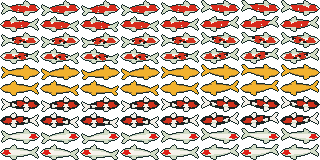
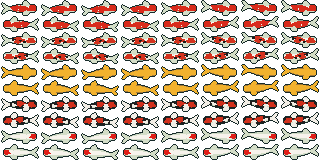
fix: preserve koi state poses and inline SSH graphics

diff --git a/site/index.html b/site/index.html
@@ -23,7 +23,7 @@
 <script>
 'use strict';
 const canvas=document.getElementById('pond');
[2 lines of base64/hex data omitted]
 const motion=matchMedia('(prefers-reduced-motion: reduce)');
 let width=0,height=0,raf=0,last=0,clock=0,target=null;
 const ripples=[];

diff --git a/internal/render/koi_review_test.go b/internal/render/koi_review_test.go
@@ -1,0 +1,189 @@
+package render
+
+import (
+	"bytes"
+	"fmt"
+	uv "github.com/charmbracelet/ultraviolet"
+	"github.com/creack/pty"
+	"github.com/kazuph/ikesu/internal/kitty"
+	"github.com/kazuph/ikesu/internal/layout"
+	"image"
+	"image/color"
+	"image/draw"
+	"image/gif"
+	"image/png"
+	"os"
+	"path/filepath"
+	"strings"
+	"testing"
+)
+
+func TestKoiGIFContainsEveryFish(t *testing.T) {
+	data, err := os.ReadFile(filepath.Join("..", "..", "docs", "brand", "koi.gif"))
+	if err != nil {
+		t.Fatal(err)
+	}
+	animation, err := gif.DecodeAll(bytes.NewReader(data))
+	if err != nil {
+		t.Fatal(err)
+	}
+	for tick, frame := range animation.Image {
+		for i := 0; i < 4; i++ {
+			fish := koiPose(KoiAgent{Seed: i, State: "idle"}, layout.Rect{X: 0, Y: i * 3, W: 40, H: 2}, 10, float64(tick)/20)
+			at := koiPixelPosition(fish, 8, 16)
+			box := image.Rectangle{Min: at, Max: at.Add(image.Pt(80, 32))}
+			if !box.In(frame.Bounds()) {
+				t.Fatalf("frame %d fish %d clipped: %v outside %v", tick, i, box, frame.Bounds())
+			}
+		}
+	}
+}
+
+func TestKoiOctantIdleActuallySinks(t *testing.T) {
+	centroid := func(state string) float64 {
+		f := NewFrame(40, 8)
+		for y := 0; y < f.H; y++ {
+			for x := 0; x < f.W; x++ {
+				f.Set(x, y, " ", uv.Style{Bg: waterBG})
+			}
+		}
+		fish := koiPose(KoiAgent{Seed: 0, State: state}, layout.Rect{X: 1, Y: 1, W: 30, H: 2}, 10, 0)
+		drawKoiOctants(f, fish)
+		total, n := 0, 0
+		for y := 0; y < f.H; y++ {
+			for x := 0; x < f.W; x++ {
+				c := f.Cell(x, y)
+				mask := -1
+				for i, r := range octantRunes {
+					if c.Content == string(r) {
+						mask = i
+						break
+					}
+				}
+				if mask < 0 {
+					continue
+				}
+				for i := 0; i < 8; i++ {
+					v := c.Style.Bg
+					if mask&(1<<i) != 0 {
+						v = c.Style.Fg
+					}
+					if v != nil && color.RGBAModel.Convert(v) != waterBG {
+						total += y*4 + i/2
+						n++
+					}
+				}
+			}
+		}
+		if n == 0 {
+			t.Fatal("no fish pixels")
+		}
+		return float64(total) / float64(n)
+	}
+	working, idle, blocked := centroid("working"), centroid("idle"), centroid("blocked")
+	t.Logf("final octant dot centroids: working=%v idle=%v blocked=%v", working, idle, blocked)
+	if idle <= working || idle <= blocked {
+		t.Fatalf("idle did not sink in final cells: working=%v idle=%v blocked=%v", working, idle, blocked)
+	}
+}
+
+func TestKoiHeadHasBluntPixelFace(t *testing.T) {
+	for _, size := range []image.Point{{40, 16}, {24, 8}} {
+		for v := range KoiPatterns {
+			img := KoiPixelSprite(v, 0, 0, size.X, size.Y)
+			front := -1
+			count := 0
+			for x := size.X - 1; x >= 0; x-- {
+				for y := 0; y < size.Y; y++ {
+					if img.RGBAAt(x, y).A != 0 {
+						count++
+					}
+				}
+				if count > 0 {
+					front = x
+					break
+				}
+			}
+			if count < size.Y/4 {
+				t.Errorf("variety %d size %v pointed face: x=%d height=%d", v, size, front, count)
+			}
+		}
+	}
+}
+
+func TestExportKoiShapeProof(t *testing.T) {
+	dest := os.Getenv("KOI_SHAPE_PROOF")
+	if dest == "" {
+		t.Skip("explicit shape proof export")
+	}
+	if err := os.MkdirAll(dest, 0755); err != nil {
+		t.Fatal(err)
+	}
+	for _, size := range []image.Point{{40, 16}, {24, 8}} {
+		for _, scale := range []int{1, 4} {
+			sheet := image.NewRGBA(image.Rect(0, 0, size.X*scale*len(KoiPatterns), size.Y*scale))
+			for v := range KoiPatterns {
+				sprite := KoiSprite(v, 0, 0, size.X*scale, size.Y*scale)
+				at := image.Pt(v*size.X*scale, 0)
+				draw.Draw(sheet, sprite.Bounds().Add(at), sprite, image.Point{}, draw.Src)
+			}
+			name := fmt.Sprintf("koi-%dx%d-%dx.png", size.X, size.Y, scale)
+			save := func(name string, img image.Image) {
+				f, err := os.Create(filepath.Join(dest, name))
+				if err != nil {
+					t.Fatal(err)
+				}
+				defer f.Close()
+				if err := png.Encode(f, img); err != nil {
+					t.Fatal(err)
+				}
+			}
+			save(name, sheet)
+			if before := os.Getenv("KOI_SHAPE_BEFORE"); before != "" {
+				f, err := os.Open(filepath.Join(before, name))
+				if err != nil {
+					t.Fatal(err)
+				}
+				old, err := png.Decode(f)
+				f.Close()
+				if err != nil {
+					t.Fatal(err)
+				}
+				comparison := image.NewRGBA(image.Rect(0, 0, sheet.Bounds().Dx(), sheet.Bounds().Dy()*2))
+				draw.Draw(comparison, old.Bounds(), old, image.Point{}, draw.Src)
+				draw.Draw(comparison, sheet.Bounds().Add(image.Pt(0, sheet.Bounds().Dy())), sheet, image.Point{}, draw.Src)
+				save("comparison-"+name, comparison)
+			}
+		}
+	}
+}
+
+func TestKoiSSHUsesInlineImages(t *testing.T) {
+	for _, key := range []string{"TERM_PROGRAM", "TERM", "KITTY_WINDOW_ID", "SSH_CONNECTION", "SSH_TTY", "TMUX", "STY"} {
+		t.Setenv(key, "")
+		os.Unsetenv(key)
+	}
+	master, terminal, err := pty.Open()
+	if err != nil {
+		t.Fatal(err)
+	}
+	defer master.Close()
+	defer terminal.Close()
+	t.Setenv("TERM", "xterm-ghostty")
+	t.Setenv("SSH_CONNECTION", "192.0.2.1 1 192.0.2.2 2")
+	in := koiFixture(t, 1)
+	in.KoiKitty = kitty.SupportsImages(terminal, terminal)
+	in.KoiCellW, in.KoiCellH = 8, 16
+	var enc Encoder
+	out := Compose(in)
+	wire := string(enc.Frame(out.Frame, 0, 0, false))
+	if !strings.Contains(wire, "a=t,t=d,") || strings.Contains(wire, "t=f,") {
+		t.Fatal("SSH koi did not use in-band image data")
+	}
+	t.Setenv("TMUX", "session")
+	in.KoiKitty = kitty.SupportsImages(terminal, terminal)
+	out = Compose(in)
+	if len(out.Frame.Graphics) != 0 || !out.Frame.KoiActive {
+		t.Fatal("TMUX did not render octants")
+	}
+}

diff --git a/internal/render/koi_raster.go b/internal/render/koi_raster.go
@@ -61,16 +61,16 @@ func koiSample(p KoiPattern, u, v, wag float64) (color.RGBA, float64) {
 	}
 	// Pectoral fins, both sides.
 	for _, s := range []float64{1, -1} {
-		du, dv := (u-0.66)/0.07, (v-s*0.14)/0.07
+		du, dv := (u-0.66)/0.085, (v-s*0.14)/0.085
 		rot := du*0.6 + dv*0.8*s
 		if du*du+dv*dv < 1 && rot < 0.6 {
 			return fin, 0.55
 		}
 	}
-	if u < 0.12 || u > 1 {
+	if u < 0.12 || u > 0.94 {
 		return color.RGBA{}, 0
 	}
-	// Torpedo outline, blunt head.
+	// Broad body with a short rounded face.
 	x := (u - 0.12) / 0.88
 	// Tapered tail, widest just behind the fins, then a round blunt head.
 	const peak = 0.62
@@ -78,7 +78,7 @@ func koiSample(p KoiPattern, u, v, wag float64) (color.RGBA, float64) {
 	if x < peak {
 		w = half * math.Pow(math.Sin(math.Pi/2*x/peak), 0.8)
 	} else {
-		w = half * math.Sqrt(math.Max(0, 1-math.Pow((x-peak)/(1-peak), 2.4)))
+		w = half * math.Sqrt(math.Max(0, 1-math.Pow((u-(0.12+0.88*peak))/(1-(0.12+0.88*peak)), 2)))
 	}
 	if math.Abs(v) > w {
 		return color.RGBA{}, 0

diff --git a/internal/client/machines.go b/internal/client/machines.go
@@ -13,6 +13,7 @@ import (
 
 	"github.com/kazuph/ikesu/internal/api"
 	"github.com/kazuph/ikesu/internal/input"
+	"github.com/kazuph/ikesu/internal/kitty"
 	"github.com/kazuph/ikesu/internal/latency"
 	"github.com/kazuph/ikesu/internal/machine"
 	"github.com/kazuph/ikesu/internal/platform"
@@ -142,7 +143,7 @@ func pumpMachines(session string, local net.Conn, in, out *os.File, settings *lo
 		m.trace = latency.Open(filepath.Join(api.SessionDir(session), "client.log"))
 	}
 	defer m.trace.Close()
-	m.koiKitty = graphicsFileTransport(in, out, false) != ""
+	m.koiKitty = kitty.SupportsImages(in, out)
 	m.endpoints["local"] = &managedEndpoint{profile: machine.Profile{ID: "local", Label: "Local", Session: session, Enabled: true}}
 	m.forms = tui.NewMachineForms(ctx, m.catalogPath(), func(fn func()) { m.post(ctx, endpointEvent{formUpdate: fn}) })
 	defer m.forms.Close()

diff --git a/internal/kitty/terminal_test.go b/internal/kitty/terminal_test.go
@@ -1,0 +1,32 @@
+package kitty
+
+import (
+	"github.com/creack/pty"
+	"os"
+	"testing"
+)
+
+func TestKoiImageCapabilityOverSSH(t *testing.T) {
+	for _, key := range []string{"TERM_PROGRAM", "TERM", "KITTY_WINDOW_ID", "SSH_CONNECTION", "SSH_TTY", "TMUX", "STY"} {
+		t.Setenv(key, "")
+		os.Unsetenv(key)
+	}
+	master, terminal, err := pty.Open()
+	if err != nil {
+		t.Fatal(err)
+	}
+	defer master.Close()
+	defer terminal.Close()
+	t.Setenv("TERM", "xterm-ghostty")
+	t.Setenv("SSH_CONNECTION", "192.0.2.1 1 192.0.2.2 2")
+	if !SupportsImages(terminal, terminal) {
+		t.Error("SSH-capable Ghostty lost in-band koi images")
+	}
+	if SupportsTerminal(terminal, terminal, false) {
+		t.Error("SSH enabled local file transport")
+	}
+	t.Setenv("TMUX", "session")
+	if SupportsImages(terminal, terminal) {
+		t.Error("multiplexer did not force octants")
+	}
+}

diff --git a/internal/kitty/terminal.go b/internal/kitty/terminal.go
@@ -11,11 +11,26 @@ func SupportsTerminal(in, out *os.File, remote bool) bool {
 	if remote || in == nil || out == nil {
 		return false
 	}
-	for _, key := range []string{"SSH_CONNECTION", "SSH_TTY", "TMUX", "STY"} {
+	for _, key := range []string{"SSH_CONNECTION", "SSH_TTY"} {
 		if _, present := os.LookupEnv(key); present {
 			return false
 		}
 	}
+	return SupportsImages(in, out)
+}
+
+// SupportsImages identifies an image-capable outer terminal, including SSH.
+// In-band payloads do not require a shared local filesystem.
+func SupportsImages(in, out *os.File) bool {
+	if in == nil || out == nil {
+		return false
+	}
+	for _, key := range []string{"TMUX", "STY"} {
+		if _, present := os.LookupEnv(key); present {
+			return false
+		}
+	}
+
 	if _, err := unix.IoctlGetWinsize(int(in.Fd()), unix.TIOCGWINSZ); err != nil {
 		return false
 	}

diff --git a/internal/render/koi_output.go b/internal/render/koi_output.go
@@ -81,8 +81,12 @@ func koiPixelPosition(fish KoiFish, cw, ch int) image.Point {
 
 func drawKoiOctants(f *Frame, fish KoiFish) {
 	w, h := fish.Rect.W*2, fish.Rect.H*4
-	sprite, _ := koiSpriteCached(koiSpriteKey{koiVariant(fish), fish.Direction, fish.Wag, w, h})
-	for y := 0; y < fish.Rect.H; y++ {
+	source, _ := koiSpriteCached(koiSpriteKey{koiVariant(fish), fish.Direction, fish.Wag, w, h})
+	rows := fish.Lane.H
+	sprite := image.NewRGBA(image.Rect(0, 0, w, rows*4))
+	offset := min(max(0, int(math.Round((fish.Y-float64(fish.Rect.Y))*4))), rows*4-h)
+	draw.Draw(sprite, source.Bounds().Add(image.Pt(0, offset)), source, image.Point{}, draw.Src)
+	for y := 0; y < rows; y++ {
 		for x := 0; x < fish.Rect.W; x++ {
 			cell := f.Cell(fish.Rect.X+x, fish.Rect.Y+y)
 			if cell == nil || cell.Width != 1 || cell.Content != " " {

diff --git a/internal/render/koi_assets_test.go b/internal/render/koi_assets_test.go
@@ -50,7 +50,7 @@ func TestExportKoiBrandAssets(t *testing.T) {
 		in.KoiTime = float64(tick) / 20
 		base := NewFrame(in.State.Cols, in.State.Rows)
 		scene := KoiSceneFor(base, in, nil)
-		img := KoiPondImage(320, 160, 0, 0, 0)
+		img := KoiPondImage(320, min(4, len(scene.Fish))*3*16, 0, 0, 0)
 		for i, fish := range scene.Fish[:min(4, len(scene.Fish))] {
 			fish = koiPose(fish.Agent, layout.Rect{X: 0, Y: i * 3, W: 40, H: 2}, 10, in.KoiTime)
 			sprite := KoiSprite(fish.Agent.Seed%len(KoiPatterns), fish.Direction, fish.Wag, 80, 32)

diff --git a/internal/tui/views.go b/internal/tui/views.go
@@ -241,7 +241,7 @@ func (a *App) draw() {
 		a.koiClock.Apply(&in, nil, time.Now(), fossilExpiry)
 	}
 	if file, ok := a.out.(*os.File); ok {
-		in.KoiKitty = kitty.SupportsTerminal(os.Stdin, file, false) && a.cellW > 0 && a.cellH > 0
+		in.KoiKitty = kitty.SupportsImages(os.Stdin, file) && a.cellW > 0 && a.cellH > 0
 	}
 	in.KoiCellW, in.KoiCellH = a.cellW, a.cellH
 	out := render.ComposeClient(in, nil, a.clientVersion, false)
